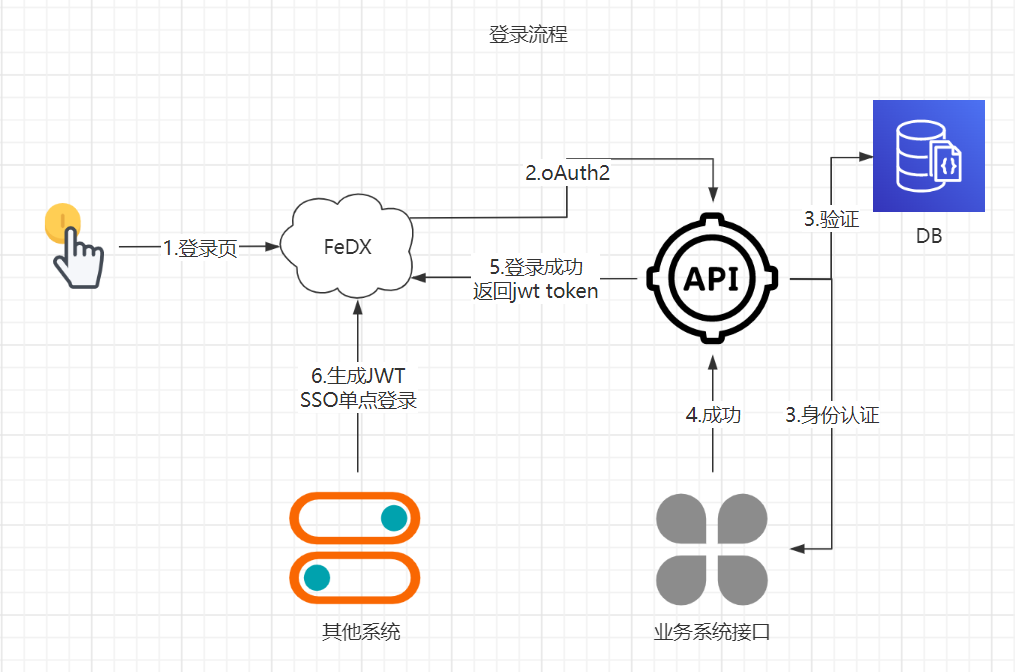
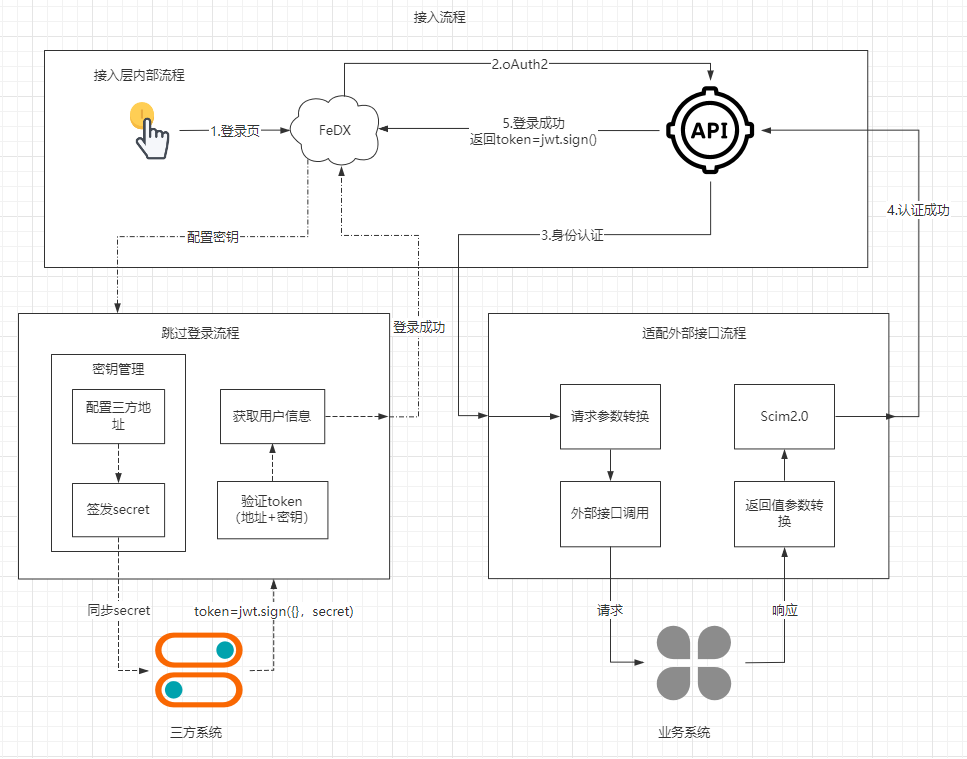
feat: 1.标记接入层范围 2.去掉DB验证图 4.userId 改成loginId 5.密钥详细的签发过程 6.接口规范要求，修改为图 8.流程优化

diff --git a/_sidebar.md b/_sidebar.md
@@ -3,7 +3,7 @@
   - [基本介绍](./docs/Introduce.md)
   - [系统架构](./docs/TechnicalArchitecture.md)
   - [技术选型](./docs/TechnologySelection.md)
-  - [接口层架构](./docs/InterfaceArchitecture.md)
+  - [接入层架构](./docs/InterfaceArchitecture.md)
   - [低代码结合](./docs/releation2LowerCode.md)
 
 - 基础框架
